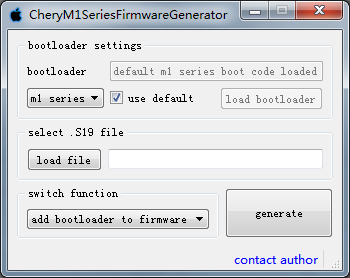
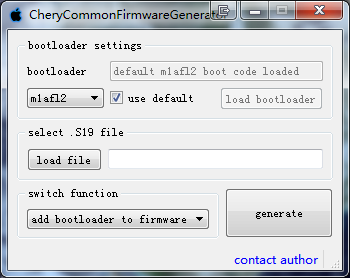
update readme

diff --git a/README.md b/README.md
@@ -1,5 +1,5 @@
 # QTPROJECTS-FIRMWARE_GENERATOR
-Chery M1 series firmware generate tool
+Chery common firmware generate tool
 
 bootloader合成页截图\
 ![bootloader合成页截图](https://github.com/bingshuizhilian/QTPROJECTS-FIRMWARE_GENERATOR/blob/master/resources/pic1.png)
